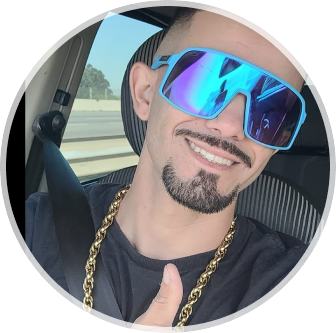
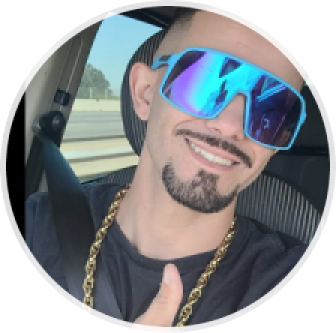
alterações

diff --git a/.vscode/style.css b/.vscode/style.css
@@ -54,7 +54,7 @@ body * {
 }
 #profile img {
   width: 112px;
-  margin: 20px;
+  margin: auto;
 }
 #profile p {
   font-weight: 500;
@@ -82,11 +82,12 @@ body * {
   left: 0;
   z-index: 1;
   transform: translateY(-50%);
+
+  animation: slide-back 0.2s;
 }
 
 .light #switch button {
-  right: 0;
-  left: initial;
+  animation: slide-in 0.2s forwards;
 }
 
 #switch span {
@@ -164,4 +165,29 @@ footer {
   padding: 24px 0;
   text-align: center;
   font-size: 14px;
+}
+
+/*media queries */
+
+@media (min-width: 700px) {
+}
+
+/*animation */
+
+@keyframes slide-in {
+  from {
+    left: 0;
+  }
+  to {
+    left: 50%;
+  }
+}
+
+@keyframes slide-back {
+  from {
+    left: 50%;
+  }
+  to {
+    left: 0;
+  }
 }

diff --git a/.vscode/assets/script.js b/.vscode/assets/script.js
@@ -12,7 +12,7 @@ function togglemode() {
   //substituir a imagem
   if (html.classList.contains("light")) {
     //se tiver light mode, adicionar a imagem light}
-    img.setAttribute("src", "./assets/avatar.light.jpg")
+    img.setAttribute("src", "./assets/avatar.light.png")
   } else {
     //se tiver sem light mode, manter a imagem normal
     img.setAttribute("src", ".assets/avatar.png")
